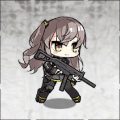
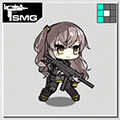
add skilldisplay panel

diff --git a/js/Echelon_main.js b/js/Echelon_main.js
@@ -726,14 +726,14 @@ function react(s_t, stand_num, current_time) { // < Skill , countdown_time >, cr
             s_t[1] = rof_to_frame(current_Info.get('type'), current_Info.get('rof'), list_tdoll[stand_num][1].ID) - 1
           }
         }
-        else if (is_this(stand_num, 198) && Set_Special.get('karm9138_' + stand_num) === 18) {
+        else if (is_this(stand_num, 198) && Set_Special.get('carcano9138_' + stand_num) === 18) {
           recordData(stand_num, current_time, 0)
           var mors_ratio
           if (enemy_type === 'normal') mors_ratio = 45
           else mors_ratio = 3
           var mors_dmg = this_formation(stand_num) * Math.ceil(mors_ratio * current_Info.get('dmg') * explain_fgl_ff('single'))
           recordData(stand_num, current_time, mors_dmg)
-          Set_Special.set('karm9138_' + stand_num, 0)
+          Set_Special.set('carcano9138_' + stand_num, 0)
           s_t[1] = rof_to_frame(current_Info.get('type'), current_Info.get('rof'), list_tdoll[stand_num][1].ID) - 1
         } else {
           s_t[1] = rof_to_frame(current_Info.get('type'), current_Info.get('rof'), list_tdoll[stand_num][1].ID) - 1
@@ -1110,11 +1110,11 @@ function react(s_t, stand_num, current_time) { // < Skill , countdown_time >, cr
     changeStatus(stand_num, 'snipe', labels, ratio, time_init)
     s_t[1] = Math.ceil(s_t[0].cld * (1 - current_Info.get('cld')) * 30) - 1 // 进入冷却
   }
-  else if (skillname === 'karm9138') { // 墨尔斯假面
+  else if (skillname === 'carcano9138') { // 墨尔斯假面
     var ratio
     if (enemy_type === 'normal') ratio = 45
     else ratio = 3
-    Set_Special.set('karm9138_' + stand_num, 0)
+    Set_Special.set('carcano9138_' + stand_num, 0)
     Set_Special.set('attack_permission_' + stand_num, 'stop') // 全体瞄准
     Set_Special.set('snipe_num_' + stand_num, 1)
     Set_Special.set('snipe_interval_' + stand_num, 0)
@@ -1170,7 +1170,7 @@ function react(s_t, stand_num, current_time) { // < Skill , countdown_time >, cr
     Set_Special.set('aug_' + stand_num, global_frame + s_t[0].duration * 30)
     s_t[1] = s_t[0].cld * 30 - 1 // 进入冷却
   }
-  else if (skillname === 'karm1891') { // 玛尔斯号角：主动
+  else if (skillname === 'carcano1891') { // 玛尔斯号角：主动
     var num_rf = 0
     for (var n = 0; n < 9; n++) {
       if (list_tdoll[n][1] != null && list_tdoll[n][1].Type === 4) num_rf++
@@ -1712,8 +1712,8 @@ function endStatus(stand_num, status, situation) { // 刷新属性，状态是 [
           }
         }
         if (_type === 'rof' && _value === 1) { // 玛尔斯号角被动消失一层
-          if (Set_Special.get('karm1891') > 0) {
-            Set_Special.set('karm1891', Set_Special.get('karm1891') - 1)
+          if (Set_Special.get('carcano1891') > 0) {
+            Set_Special.set('carcano1891', Set_Special.get('carcano1891') - 1)
           }
         }
         if (_type === 'acu' && _value === 1) { // M2致命干扰消失一层

diff --git a/js/Echelon_skill.js b/js/Echelon_skill.js
@@ -110,14 +110,14 @@ function describe_falcon(ratio, time_init, time_interval, snipe_num, labels) { /
   Describe.labels = labels
   return Describe
 }
-function describe_karm1891() {
+function describe_carcano1891() {
   var Describe = {}
-  Describe.name = 'karm1891'
+  Describe.name = 'carcano1891'
   return Describe
 }
-function describe_karm9138() {
+function describe_carcano9138() {
   var Describe = {}
-  Describe.name = 'karm9138'
+  Describe.name = 'carcano9138'
   return Describe
 }
 function describe_hs2000() { // 反击者壁垒
@@ -608,8 +608,8 @@ lib_describe.set('dsr50', describe_dsr50(6, 10, 2, 'armless/critless/evaless')) 
 lib_describe.set('js05', describe_snipe(2, 2, 0, 1, 'armless/critless/evaless')) // 贯通射击2倍，目标数特殊变量设定
 lib_describe.set('pzb39', describe_snipe(1.8, 2, 0, 1, 'armless/critless/evaless')) // 贯通射击1.8倍
 lib_describe.set('tac50', describe_snipe(4.5, 1, 0, 1, 'armless/crit/evaless')) // 枫华萤火
-lib_describe.set('karm1891', describe_karm1891()) // 玛尔斯号角
-lib_describe.set('karm9138', describe_karm9138()) // 墨尔斯假面
+lib_describe.set('carcano1891', describe_carcano1891()) // 玛尔斯号角
+lib_describe.set('carcano9138', describe_carcano9138()) // 墨尔斯假面
 lib_describe.set('iws2000_reset', describe_iws2000reset()) // 巨鹰攻势重置普攻
 lib_describe.set('m82a1', describe_m82a1(4.2, 1, 0, 1, 'armless/critless/evaless')) // 伪神的启示
 lib_describe.set('falcon', describe_falcon(2.5, 1.33, 0, 1, 'armless/crit/evaless')) // 夕阳隼
@@ -1014,8 +1014,8 @@ lib_skill.set(148, [
 ])
 lib_skill.set(179, [createSkill(15, 16, 0, lib_describe.get('dsr50'))])
 lib_skill.set(192, [createSkill(6, 16, 0, lib_describe.get('js05'))])
-lib_skill.set(197, [createSkill(6, 8, 7.5, lib_describe.get('karm1891'))])
-lib_skill.set(198, [createSkill(6, 8, 0, lib_describe.get('karm9138'))])
+lib_skill.set(197, [createSkill(6, 8, 7.5, lib_describe.get('carcano1891'))])
+lib_skill.set(198, [createSkill(6, 8, 0, lib_describe.get('carcano9138'))])
 lib_skill.set(204, [createSkill(8, 16, 6, lib_describe.get('blst'))])
 lib_skill.set(211, [createSkill(6, 8, 5, lib_describe.get('srs'))])
 lib_skill.set(222, [createSkill(10, 16, 0, lib_describe.get('tac50'))])

diff --git a/js/Echelon_special.js b/js/Echelon_special.js
@@ -58,18 +58,18 @@ function settle_buff(stand_num, info_self) {
         }
     }
     else if (is_this(stand_num, 197)) { // carcano m1891
-        if (Set_Special.get('karm1891') === undefined) Set_Special.set('karm1891', 0)
-        if (Math.random() <= 0.4 && Set_Special.get('karm1891') < 3) {
+        if (Set_Special.get('carcano1891') === undefined) Set_Special.set('carcano1891', 0)
+        if (Math.random() <= 0.4 && Set_Special.get('carcano1891') < 3) {
             var num_col = Math.ceil(stand_num / 3) + 1
             react([createSkill(0, 0, 2, describe_property(['col' + num_col], ['rof/crit'], ['0.04/0.04'])), 0], stand_num, global_frame)
             changeStatus(stand_num, 'self', 'rof', '0', 2)
-            Set_Special.set('karm1891', Set_Special.get('karm1891') + 1)
+            Set_Special.set('carcano1891', Set_Special.get('carcano1891') + 1)
         }
     }
     else if (is_this(stand_num, 198)) { // carcano m91/38 passive
-        if (Set_Special.get('karm9138_' + stand_num) === undefined) Set_Special.set('karm9138_' + stand_num, 0)
+        if (Set_Special.get('carcano9138_' + stand_num) === undefined) Set_Special.set('carcano9138_' + stand_num, 0)
         if (Math.random() <= 0.7) {
-            Set_Special.set('karm9138_' + stand_num, Set_Special.get('karm9138_' + stand_num) + 2)
+            Set_Special.set('carcano9138_' + stand_num, Set_Special.get('carcano9138_' + stand_num) + 2)
         }
     }
     else if (is_this(stand_num, 214)) { // ADS

diff --git a/js/Echelon_property.js b/js/Echelon_property.js
@@ -327,7 +327,7 @@ lib_affect.set(274, createAffect('r/ru/ruu/', 'smg', ['rof', 'acu'], [0.25, 0.65
 lib_affect.set(275, createAffect('rr/rrd/', 'sg', ['acu', 'arm'], [0.1, 0.12])) // M1895 CB
 lib_affect.set(276, createAffect('rr/rru/', 'sg', ['dmg', 'arm'], [0.15, 0.15])) // Kord
 lib_affect.set(281, createAffect('ll/lld/', 'mg', ['dmg', 'acu'], [0.18, 0.12])) // CAWS
-lib_affect.set(282, createAffect('ll/llu/', 'mg', ['dmg', 'acu'], [0.15, 0.15])) // DP-12
+lib_affect.set(282, createAffect('ll/llu/', 'mg/rf', ['dmg', 'acu'], [0.15, 0.15])) // DP-12
 lib_affect.set(283, createAffect('ll/lldd/', 'mg', ['dmg', 'acu'], [0.1, 0.25])) // 解放者
 // Digimind update
 lib_affect.set(1001, createAffect('u/d/l/r/', 'all', ['dmg', 'acu'], [0.24, 0.6])) // 柯尔特左轮改
@@ -731,7 +731,6 @@ lib_property_equip.set(41, createProperty_equip(0, 0, 0, 0, 0, 0, 0, 0, 0, 100))
 lib_property_equip.set(19993, createProperty_equip(0, 3, 20, 0, 0, 0.2, 0, 0, 0, 0)) // M9
 lib_property_equip.set(17, createProperty_equip(0, 4, 10, 0, 0, 0.2, 0, 0, 0, -100)) // stechkin
 lib_property_equip.set(110, createProperty_equip(0, 0, 18, 0, 0, 0.3, 0, 0, 0, 0)) // ppk
-
 lib_property_equip.set(117, createProperty_equip(4, 0, 21, 0, 0, 0.28, 0, 0, 0, 0)) // m3
 lib_property_equip.set(118, createProperty_equip(0, 0, 20, -4, 0, 0.35, 0, 0, 0, 0)) // MAC-10
 lib_property_equip.set(146, createProperty_equip(0, 0, 0, 0, 0, 0.48, 0.2, 0, 0, 0)) // Kar98k

diff --git a/js/Echelon_select.js b/js/Echelon_select.js
@@ -379,7 +379,7 @@ function changeEquip() {
       str_items += '<option value=11>[' + lib_language.equipNAME_11 + '] AC4' + lib_language.equipNAME_11 + '</option>'
       str_items += '<option value=41>[' + lib_language.equipNAME_41 + '] PEQ-16A</option>'
       if (ID === 3) str_items += '<option value=19993>' + lib_language.equipNAME_19993 + '</option>' // M9
-      if (ID === 7) str_items += '<option value=17>' + lib_language.equipNAME_17 + '</option>' // 斯捷奇金
+      if (ID === 7 || ID === 1007) str_items += '<option value=17>' + lib_language.equipNAME_17 + '</option>' // 斯捷奇金
       if (ID === 10) str_items += '<option value=110>' + lib_language.equipNAME_110 + '</option>' // ppk
       if (ID === 1001) str_items += '<option value=11001>' + lib_language.equipNAME_11001 + '</option>' // 柯尔特左轮
       if (ID === 1005) str_items += '<option value=11005>' + lib_language.equipNAME_11005 + '</option>' // 纳甘左轮

diff --git a/pages/GFT_Echelon.html b/pages/GFT_Echelon.html
@@ -154,6 +154,8 @@
                                                 </tr>
                                             </tbody>
                                         </table>
+                                        <p><input type="checkbox" id="check_showskilltable"> 显示技能表</p>
+                                        <h5 id="ui_skilltable"></h5>
                                     </div>
                                     <!--INFO-->
                                     <div class="col-lg-8">

diff --git a/js/version_GFT.js b/js/version_GFT.js
@@ -1,7 +1,7 @@
 var _version = {
   DB: 'v3.3',
   CC: 'v5.3 (2019.11.26)',
-  ES: 'v4.4.2 (2019.12.05)'
+  ES: 'v4.4.3 (2019.12.14)'
 }
 var _updateinfo = {
   ES: '1. debug K2<br>2. add exclusive equipments in forward basecamp<br>3. debug Theresa skill'
